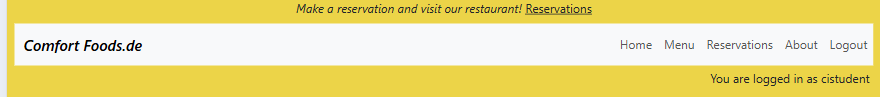
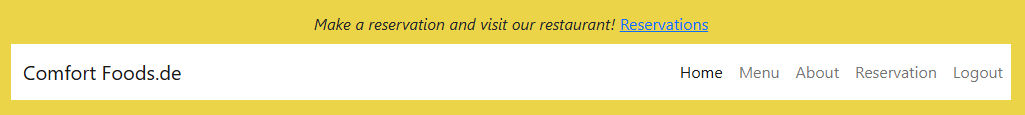
Update home page feature and navigation bar feature, add a footer feature, change images to match the content on the README.md file

diff --git a/reservation/templates/table_booking.html b/reservation/templates/table_booking.html
@@ -13,7 +13,7 @@
         <!--input service-->
         <div>
             <h3 class="">Select Table:</h3>
-            <select class=" fs-3" name="table_service">
+            <select class="form-select fs-3" name="table_service">
                 <option value="Table for 2">Table for 2</option>
                 <option value="Table for 4">Table for 4</option>
                 <option value="Table for 6">Table for 6</option>
@@ -25,18 +25,19 @@
         <!--input day-->
         <div class="mt-3">
             <h3 class="">Date of Reservation:</h3>
-            <select class=" fs-3" name="day">
-                {% for validateDate in validateDate %}
+            <select class="format-select fs-3" name="day">
+                {% for validateDate in validateDates %}
                 <option value="{{validateDate}}">{{validateDate}}</option>
                 {% endfor %}
             </select>
         </div>
+    
             <!--input time-->
-        <div>
+        <!-- <div>
             <h3 class="time">Time:</h3>
-            <select class=" fs-3 text-center" name="time">
+            <select class=" fs-3 text-center" name="time"> -->
                 <!-- {% for time in times %} -->
-                <option value="17:00 PM">17:00 PM</option>
+                <!-- <option value="17:00 PM">17:00 PM</option>
                 <option value="17:30 PM">17:30 PM</option>
                 <option value="18:00 PM">18:00 PM</option>
                 <option value="18:30 PM">18:30 PM</option>
@@ -46,17 +47,13 @@
                 <option value="20:30 PM">20:30 PM</option>
                 <option value="21:00 PM">21:00 PM</option>
                 <option value="21:30 PM">21:30 PM</option>
-                <option value="22:00 PM">22:00 PM</option>
+                <option value="22:00 PM">22:00 PM</option> -->
                 <!-- {% endfor %} -->
-            </select>
-        </div>
+            <!-- </select> -->
+        <!-- </div> -->
         <button type="submit" class="btn btn-primary text-white mt-3 fPersian">Submit</button>
     </form>
-    <!-- <form method="post" action="{% url 'bookingSubmit' %}" class="me-2 ms-2" required> -->
-        <!-- {% csrf_token %} -->
-        <!--input time-->
-        
-    <!-- </form> -->
+
 </div>
 
 {% else %}

diff --git a/templates/base.html b/templates/base.html
@@ -4,6 +4,8 @@
 {% url 'menu' as menu_url %}
 {% url 'about' as about_url %}
 {% url 'tableBooking' as tableBooking_url %}
+{% url 'staffPanel' as staffPanel_url %}
+{% url 'userPanel' as userPanel_url %}
 {% url 'account_login' as login_url %}
 {% url 'account_signup' as signup_url %}
 {% url 'account_logout' as logout_url %}
@@ -55,7 +57,7 @@
 <body class="d-flex flex-column h-100 main-bg">
     <!-- Callout -->
     <div class="d-none d-md-block">
-      <p class="navbar-text my-auto mr-2">
+      <p class="navbar-text my-auto mr-2 text-center">
         <i>Make a reservation and visit our restaurant!</i> <span><a href="{% url 'tableBooking' %}">Reservations</a></span>
       </p>
     </div>
@@ -152,6 +154,8 @@
             <a href="https://www.instagram.com"><i class="fab fa-instagram-square ms-3"></i></a>
             <a href="https://www.youtube.com"><i class="fab fa-youtube-square ms-3"></i></a>
         </p>
+        <p class="m-0 text-center">Contact us: 030 1234-5678
+        </p>
     </footer>
 
     <script src="https://cdn.jsdelivr.net/npm/bootstrap@5.0.1/dist/js/bootstrap.bundle.min.js"
@@ -159,8 +163,6 @@
     </script>
     
     {% block extras %}
-    {% endblock %}
-    {% block home %}
     {% endblock %}
 </body>
 

diff --git a/reservation/bookingSubmit.html b/reservation/bookingSubmit.html
@@ -1,0 +1,41 @@
+<title>Online Booking</title>
+{% extends 'base.html' %}
+{% load static %}
+{% block content %}
+
+
+
+
+{% if user.is_authenticated %}
+<h1 class="text-center fPersian mt-3">Book Your Time</h1>
+
+<div class="shadow p-4 mb-5 bg-body bg-body rounded text-black text-center m-5">
+    <form method="post" action="{% url 'bookingSubmit' %}" class="me-2 ms-2" required>
+        {% csrf_token %}
+        
+        <!--input time-->
+        <h3 class="text-center fPersian mt-4">Time:</h3>
+        <div>
+            <select class="form-select fs-3 text-center" name="time">
+                {% for time in times %}
+                <option value="{{time}}">{{time}}</option>
+                {% endfor %}
+            </select>
+        </div>
+
+        <button type="submit" class="btn btn-primary text-white mt-3 fPersian">Submit</button>
+
+    </form>
+</div>
+
+{% else %}
+
+<div class="shadow p-4 mb-5 bg-body bg-body rounded text-black  m-5">
+    <h1 class="p-2  me-3">First Sign in!</h1>
+    <a href="{% url 'login' %}" class="btn btn-primary text-white">Sign in</a>
+</div>
+
+{% endif %}
+
+
+{% endblock %}

diff --git a/reservation/templates/userUpdate.html b/reservation/templates/userUpdate.html
@@ -31,7 +31,7 @@
             <div class="mt-3">
                 <h3 class="">Select Day:</h3>
                 <select class="form-select fs-3" name="day">
-                    {% for validateDate in validateDate %}
+                    {% for validateDate in validateDates %}
                     <option value="{{validateDate}}">{{validateDate}}</option>
                     {% endfor %}
                 </select>

diff --git a/static/css/style.css b/static/css/style.css
@@ -1,6 +1,7 @@
 body {
     background-color: rgb(236, 212, 72);
     margin: auto;
+    padding: 20px;
 }
 
 .brand {
@@ -41,9 +42,7 @@ div.img {
 }
 
 .image-container {
-    
-    height: 200px;
-    object-fit: cover;
+    position: relative;
 }
 
 .image-flash {

diff --git a/reservation/views.py b/reservation/views.py
@@ -6,15 +6,12 @@ from django.contrib import messages
 
 
 # Create your views here.
-def index(request):
-    return render(request, "index.html",{})
-
 def tableBooking(request):
     # form = ReservationForm()
 
     weekend = validDay(21)
 
-    validateDate = isDateValid(weekend)
+    validateDates = isDateValid(weekend)
     
     if request.method == "POST":
         table_service = request.POST.get('table_service')
@@ -34,7 +31,7 @@ def tableBooking(request):
         {
             # "form": form,
             "weekend": weekend,
-            "validateDate": validateDate,
+            "validateDates": validateDates,
         }
     )
 
@@ -69,7 +66,7 @@ def bookingSubmit(request):
                                 time = time,
                             )
                             messages.success(request, "Reservation Saved!")
-                            return redirect('index')
+                            return redirect('home')
                         else:
                             messages.success(request, "The Selected Time Has Been Reserved Before!")
                     else:
@@ -102,9 +99,9 @@ def userUpdate(request, id):
 
     delta24 = (userdatepicked).strftime('%Y-%m-%d') >= (today + timedelta(days=1)).strftime('%Y-%m-%d')
 
-    weekend = validDay(21)
+    weekends = validDay(21)
 
-    validateDate = isDateValid(weekend)
+    validateDates = isDateValid(weekends)
 
     if request.method == 'POST':
         table_service = request.POST.get('table_service')
@@ -117,8 +114,8 @@ def userUpdate(request, id):
 
 
     return render(request, 'userUpdate.html', {
-            'weekend':weekend,
-            'validateDate':validateDate,
+            'weekends':weekends,
+            'validateDates':validateDates,
             'delta24': delta24,
             'id': id,
         })

diff --git a/reservation/urls.py b/reservation/urls.py
@@ -2,7 +2,7 @@ from . import views
 from django.urls import path
 
 urlpatterns = [
-    path('', views.index, name='index'),
+    # path('', views.index, name='index'),
     path('table_booking', views.tableBooking, name='tableBooking'),
     path('booking-submit', views.bookingSubmit, name='bookingSubmit'),
     path('user-panel', views.userPanel, name='userPanel'),

diff --git a/developer/settings.py b/developer/settings.py
@@ -29,7 +29,7 @@ TEMPLATES_DIR = os.path.join(BASE_DIR, 'templates')
 SECRET_KEY = os.environ.get("SECRET_KEY")
 
 # SECURITY WARNING: don't run with debug turned on in production!
-DEBUG = True
+DEBUG = False
 
 ALLOWED_HOSTS = ['127.0.0.1','localhost', '.herokuapp.com']
 

diff --git a/README.md b/README.md
@@ -1,24 +1,42 @@
 # Comfort Foods.de
 
-Comfort Foods.de is a Restaurant Booking System. The site is for a restaurant that sells South African Food and it is based in Europe. The target market are people who come from Africa that have not indulged in the meals in a long time and also for Europeans that like to try new food from different cultures. Customers may use the site to make a booking to come visit the store.
+Comfort Foods.de is a Restaurant Booking System. The site is for a restaurant that sells South African Food and it is based in Europe. The target market are people who come from Africa that have not indulged in the meals in a long time and also for tourists from around the globe that like to try new food from different cultures. Customers may use the site to make a booking to come visit the store. The restaurant does not allow walk-ins, strictly bookings are allowed. The aim of the restaurant is to allow people from different cultures to experience the warmth and love added into the dishes. The restaurant does not allow online ordering, customers would have to experience the meals inside the establishment.
 
 ## Features
 ### Navigation bar
- -	A customer uses the navigation bar to navigate around the site
- -	Each link clicked directs the customer to that page
+ - A customer uses the navigation bar to navigate around the site
+ - Each link clicked directs the customer to a page where they can find more information
+ - When a customer is not on the home page, they can click on the restaurant name to be redirected back to the menu.
+ - A user can click the Reservation link at the top of any page to make a reservation.
+ - The visible links on the navigation bar are only visible when a user is logged in. Please see below:
 
- ![navigation-bar](readme.md_file/navigation-bar.png)
+ ![Navigation bar](readme.md_file/navigation-bar.png)
+
+ - When a user is not logged in, the only links visble are as shown below:
+
+ ![Logged out](readme.md_file/logout-nav.png)
 
 ### Home Page
- This page has a callout message welcoming the user to the site
- ![home-page](/readme.md_file/home-page1.png)
+ - This page has a callout message welcoming the user to the site
+ - It has a carousel effect which shows a few of our dishes served at the restaurant
+ - Below the images is a paragraph inviting users to signup in order to get rewards. Please see image below:
+
+ ![Home-page](/readme.md_file/home-page.png)
+ 
+### Footer
+ - Users can visit our social media sites to find out more information on a site
+ - They can also contact us to make bookings. Please see below:
+
+ ![Footer](readme.md_file/footer.png)
 
 ### Menu Page
-  o	The menu page shows our food menu as well as images of what is sold
-  o	The menu has 4 categories, namely: Braai – meat platters that consist of grilled meat types; Hearty Meals – consists of meals that bring comfort to the heart; Sides – these sides can be added to the hearty meals or Braai meat platters; and Drinks – these drinks are especially made in South Africa
-  o	A customer can select their food using the “select” button to order their food.
-  o	When a customer is done selecting their meal, they can then click the “submit order” button where they will be redirected to a page to make a Reservation
+  -	The menu page shows our food menu as well as images of what is sold
+  -	Braai – meat platters that consist of grilled meat types; Hearty Meals – consists of meals that bring comfort to the heart; Sides – these sides can be added to the hearty meals or Braai meat platters; and Drinks – these drinks are especially made in South Africa
+  -	A customer can select their food using the “select” button to order their food.
+  -	When a customer is done selecting their meal, they can then click the “submit order” button where they will be redirected to a page to make a Reservation
+
   ![menu-page](/readme.md_file/menu-page1.png)
+
 ### Reservations
   o	This page is used to make reservations to visit the restaurant.
   o	In order for a customer to make a reservation, they would need to sign up and log in 
